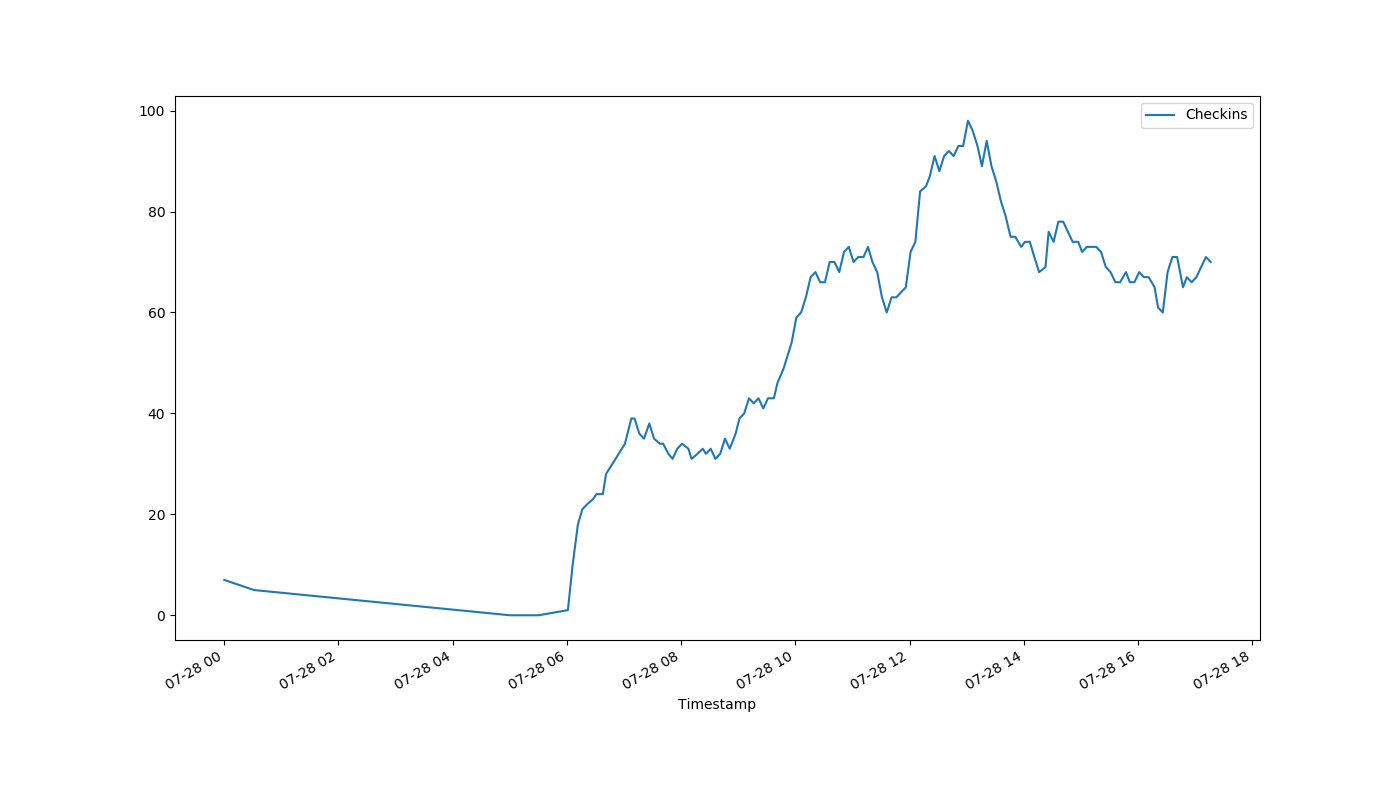
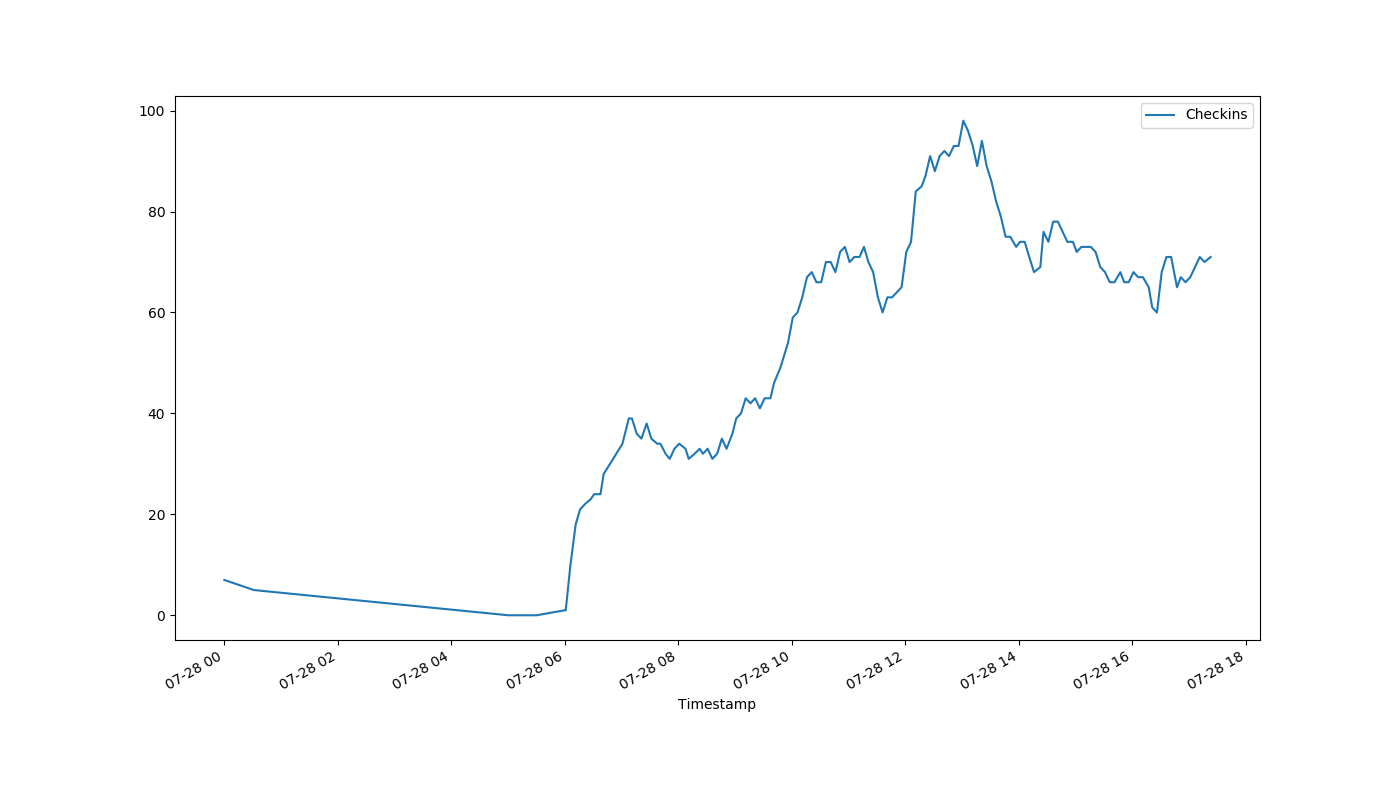
auto-Jul-28-17:24:26

diff --git a/index.html b/index.html
@@ -1,1 +1,1 @@
-<!DOCTYPE html><html><head><meta http-equiv="refresh" content="30"><link rel='stylesheet' href='holmcurrent.css'></head><body><p id='count'>-1</p><div id='graph-wrap'><img id='graph' src='holmgraph-Jul-28.png'></div><p id='updated'>Last updated 17:22:13 / 17:21:28</p></body></html>
+<!DOCTYPE html><html><head><meta http-equiv="refresh" content="30"><link rel='stylesheet' href='holmcurrent.css'></head><body><p id='count'>71</p><div id='graph-wrap'><img id='graph' src='holmgraph-Jul-28.png'></div><p id='updated'>Last updated 17:23:13 / 17:22:48</p></body></html>
